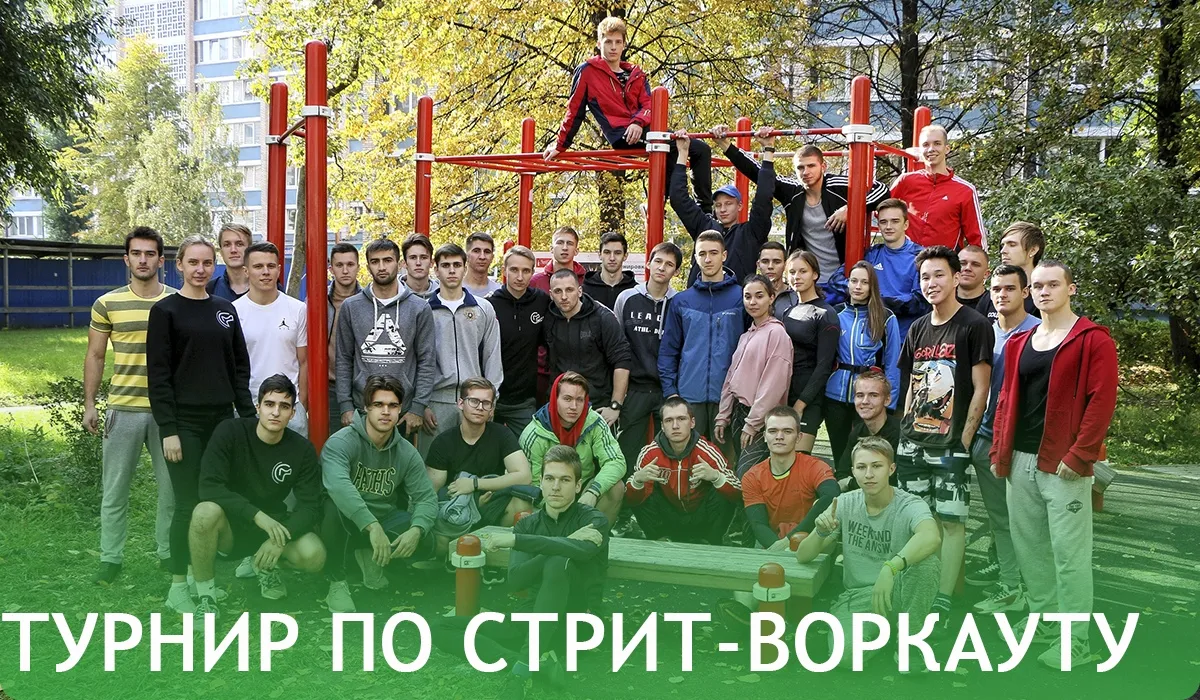
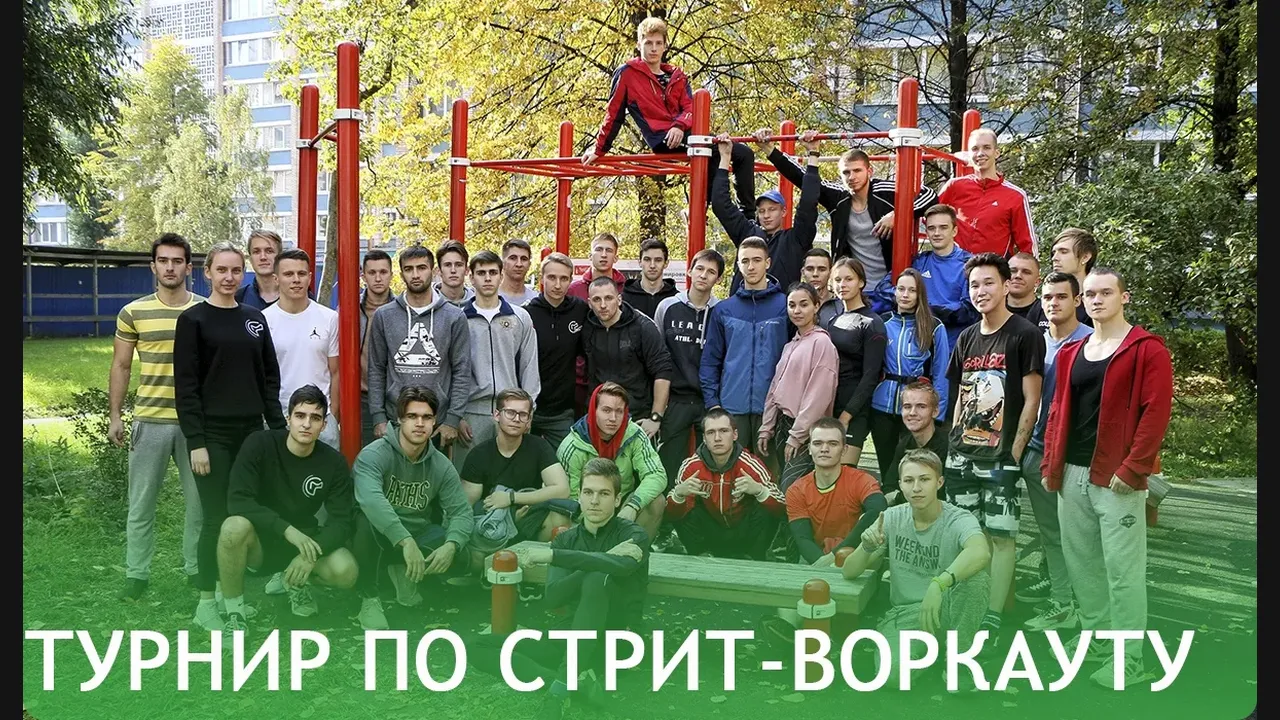
Update image formats to WebP and adjust carousel image styling for better fit

diff --git a/styles.css b/styles.css
@@ -708,7 +708,7 @@ body > * {
 .carousel-img {
     width: 100%;
     height: 400px;
-    object-fit: cover;
+    object-fit: contain;
     display: block;
 }
 
